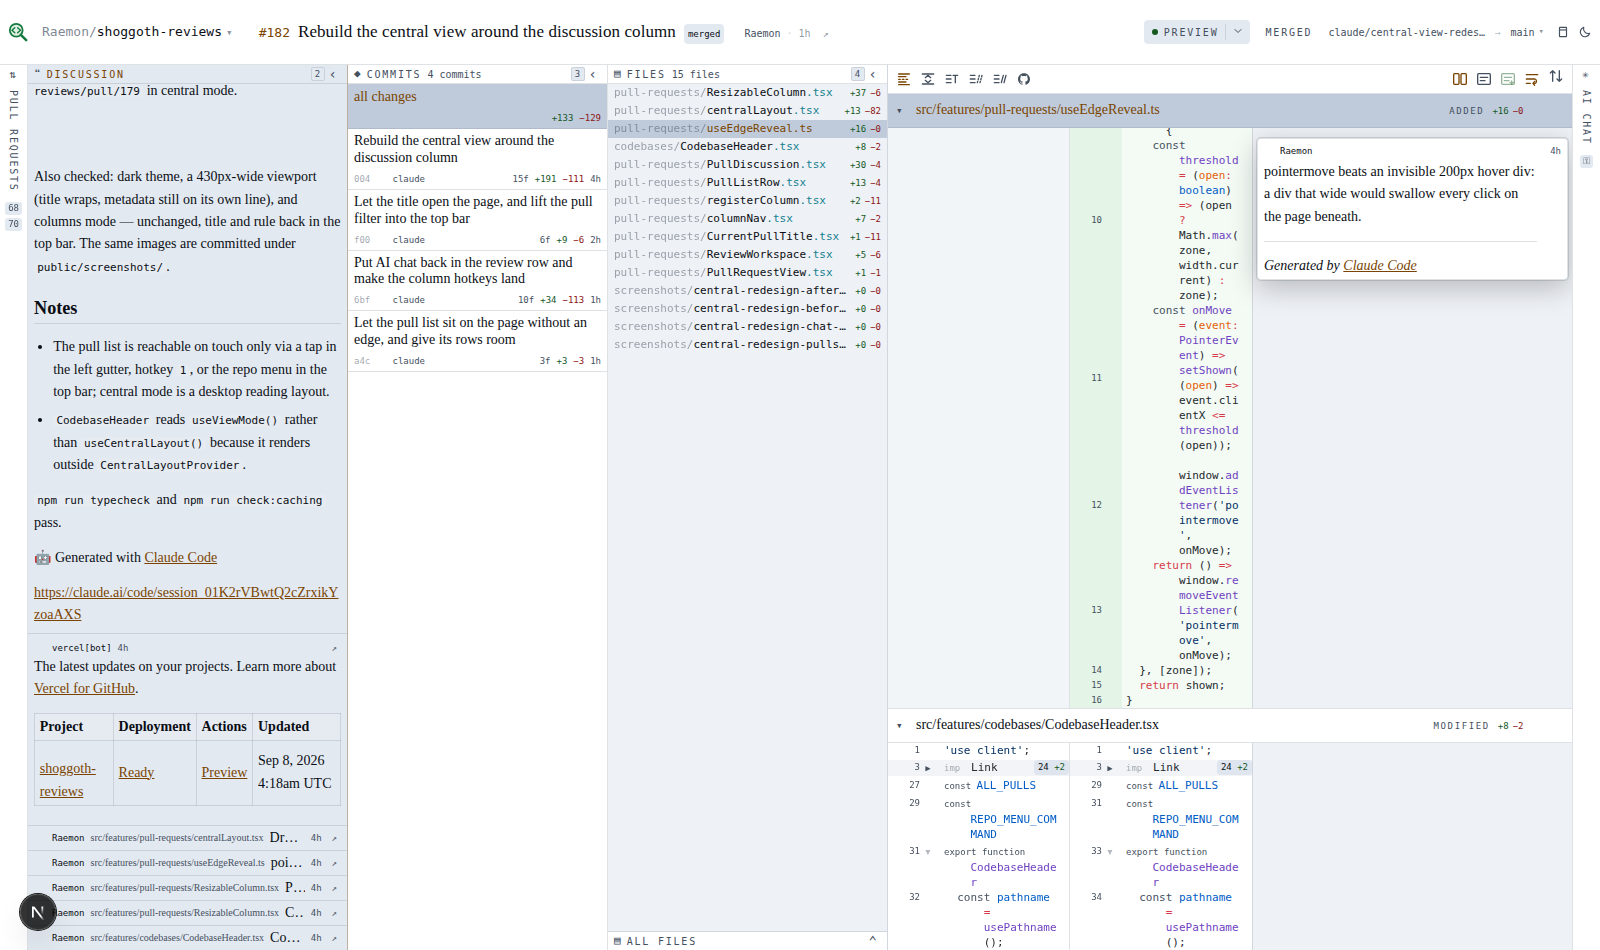
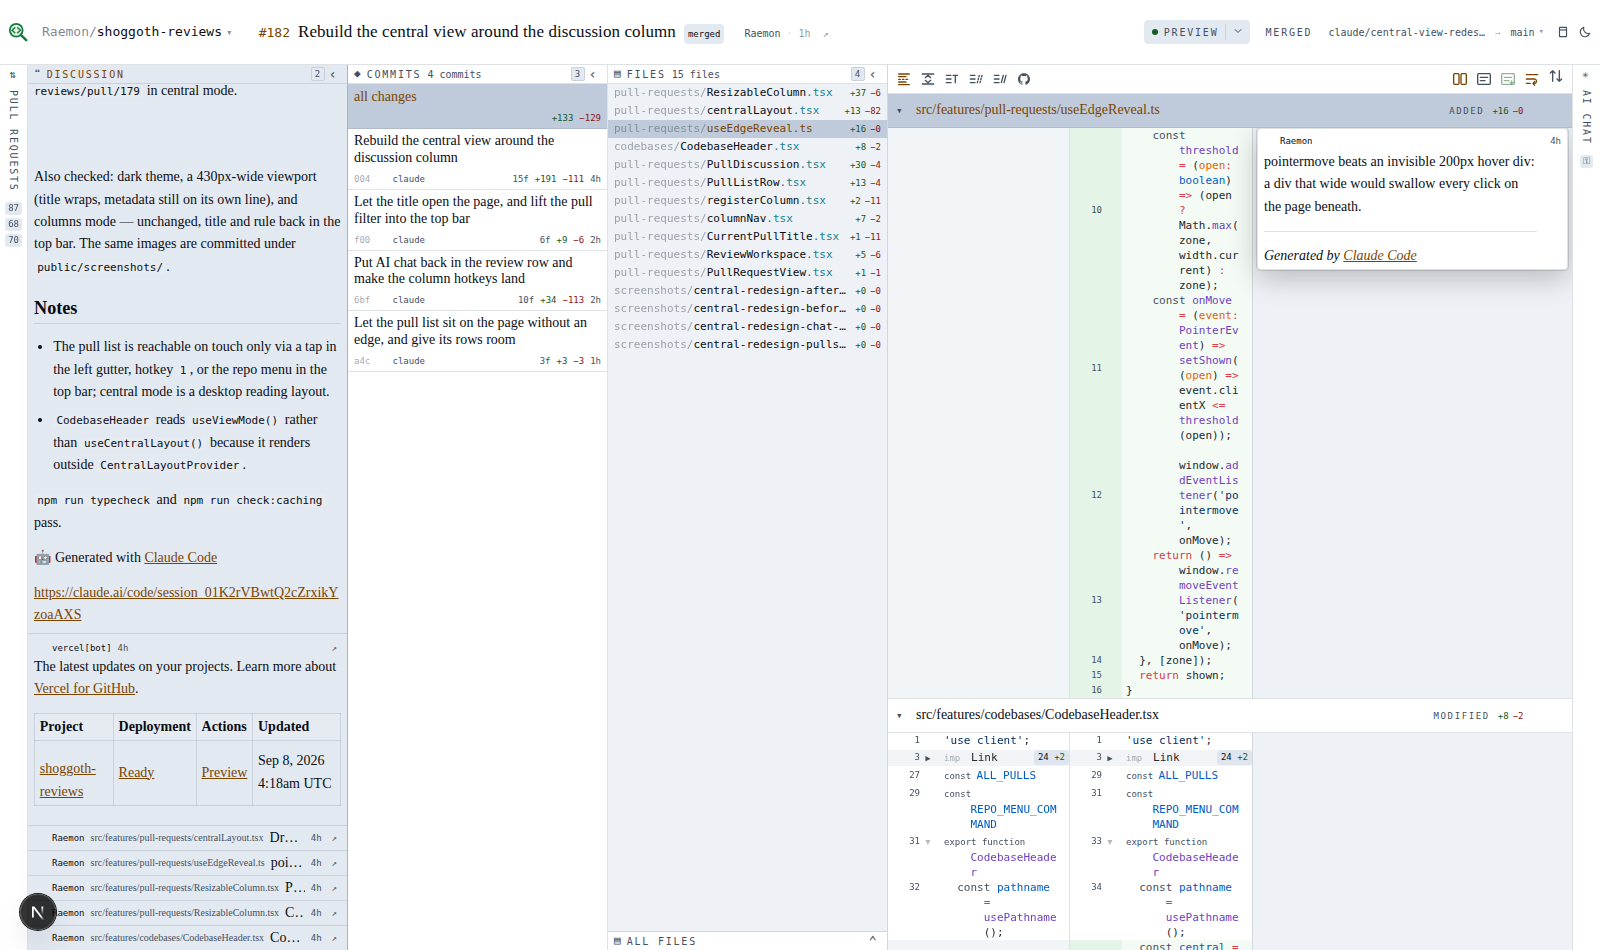
Measure the sticky header instead of guessing the gap above a card
Fold the gap into the scroll target, render the pull body as a conversation
entry directly, and trim the new comments to one line each.

Claude-Session: https://claude.ai/code/session_01KfTDiZuNB6G6FugKCqSnFN

Changed region(s): [[0.5625, 0.1221, 1.0, 1.0], [0.875, 0.7326, 0.9688, 0.7632], [0.0, 0.2442, 0.0312, 0.2747]]

diff --git a/src/features/pull-requests/DiffPanes.tsx b/src/features/pull-requests/DiffPanes.tsx
@@ -19,9 +19,12 @@ import { PaneStatusLine } from '@/features/surface-ui/PaneStatusLine';
 const SCROLL_MS = 100;
 const REALIGN_MS = 150;
 const REALIGN_TRIES = 12;
-// Flush to the top a card hides under the sticky file header, so it stops short of it.
-const THREAD_TOP_GAP = 44;
 const HAND_EVENTS = ['wheel', 'touchstart', 'pointerdown', 'keydown'] as const;
+
+interface ScrollTarget {
+  node: HTMLElement;
+  gap: number;
+}
 
 export interface DiffPanesHandle {
   scrollToFile: (path: string, rootId?: number) => void;
@@ -145,14 +148,16 @@ function holdingInPlace(container: HTMLElement | null, anchor: Element | null, c
   if (container && anchor && top !== undefined) container.scrollTop += anchor.getBoundingClientRect().top - top;
 }
 
-// A thread card only mounts once its file has drawn, so the target is re-read on every realign.
-function scrollTarget(section: HTMLElement | undefined, rootId?: number): HTMLElement | null {
-  if (!section || rootId === undefined) return section ?? null;
-  return section.querySelector<HTMLElement>(`[data-thread-root="${rootId}"]`) ?? section;
+// A thread card mounts only once its file draws, so the target is re-read each realign.
+function scrollTarget(section: HTMLElement | undefined, rootId?: number): ScrollTarget | null {
+  if (!section) return null;
+  const card = rootId === undefined ? null : section.querySelector<HTMLElement>(`[data-thread-root="${rootId}"]`);
+  return card ? { node: card, gap: headerHeight(section) } : { node: section, gap: 0 };
 }
 
-function gapAbove(target: HTMLElement): number {
-  return target.hasAttribute('data-thread-root') ? THREAD_TOP_GAP : 0;
+// Flush to the top a card would sit under the sticky header, so it stops that far short.
+function headerHeight(section: HTMLElement): number {
+  return section.firstElementChild?.getBoundingClientRect().height ?? 0;
 }
 
 function scrollerOffset(container: HTMLElement, section: HTMLElement): number {
@@ -178,7 +183,7 @@ function remember(refs: Map<string, (node: HTMLElement | null) => void>, path: s
 }
 
 // Files above the target draw as they near, moving it; hold it there until they settle.
-function realignAfterDrawing(container: HTMLElement, section: () => HTMLElement | null): () => void {
+function realignAfterDrawing(container: HTMLElement, section: () => ScrollTarget | null): () => void {
   let tries = 0;
   const stop = () => {
     clearInterval(settle);
@@ -187,7 +192,7 @@ function realignAfterDrawing(container: HTMLElement, section: () => HTMLElement 
   const settle = setInterval(() => {
     const target = section();
     if (!target || (tries += 1) > REALIGN_TRIES) stop();
-    else container.scrollTop = scrollerOffset(container, target) - gapAbove(target);
+    else container.scrollTop = scrollerOffset(container, target.node) - target.gap;
   }, REALIGN_MS);
   handEvents((type) => window.addEventListener(type, stop, true));
   return stop;

diff --git a/src/features/pull-requests/PullDiscussion.tsx b/src/features/pull-requests/PullDiscussion.tsx
@@ -44,7 +44,7 @@ export function PullDiscussion({
   return (
     <div className="flex flex-col">
       <SubjectHeading number={number} pull={pull} url={pullUrl(owner, repo, number)} />
-      <DiscussionEntry
+      <ConversationEntry
         owner={owner}
         repo={repo}
         author={pull.author}
@@ -112,14 +112,13 @@ interface Byline {
 interface EntryProps extends Byline {
   owner: string;
   repo: string;
-  id?: number;
-  path?: string | null;
-  bodyWidth?: string;
+  id: number;
+  path: string | null;
 }
 
-function DiscussionEntry({ path, id, ...entry }: EntryProps) {
-  if (path && id !== undefined) return <InlineEntry {...entry} path={path} id={id} />;
-  return <ConversationEntry {...entry} />;
+function DiscussionEntry({ owner, repo, id, path, ...byline }: EntryProps) {
+  if (path) return <InlineEntry {...byline} id={id} path={path} />;
+  return <ConversationEntry {...byline} owner={owner} repo={repo} />;
 }
 
 function ConversationEntry({
@@ -131,7 +130,7 @@ function ConversationEntry({
   url,
   body,
   bodyWidth = '',
-}: Omit<EntryProps, 'path' | 'id'>) {
+}: Byline & { owner: string; repo: string; bodyWidth?: string }) {
   return (
     <article className={`${ENTRY_LINE} py-1.5`}>
       <header className="flex items-center gap-1.5 text-[9px] leading-4 text-ink-dim">
@@ -169,7 +168,7 @@ function useShowInDiff(path: string, id: number): () => void {
   return () => reveal?.(path, rootOf(threads, id));
 }
 
-// A reply's own id anchors nothing: the diff renders one card per thread, keyed by its root comment.
+// A reply anchors nothing: the diff renders one card per thread, keyed by its root.
 function rootOf(threads: ReviewThread[], id: number): number {
   return threads.find((thread) => thread.comments.some((comment) => comment.id === id))?.rootId ?? id;
 }
